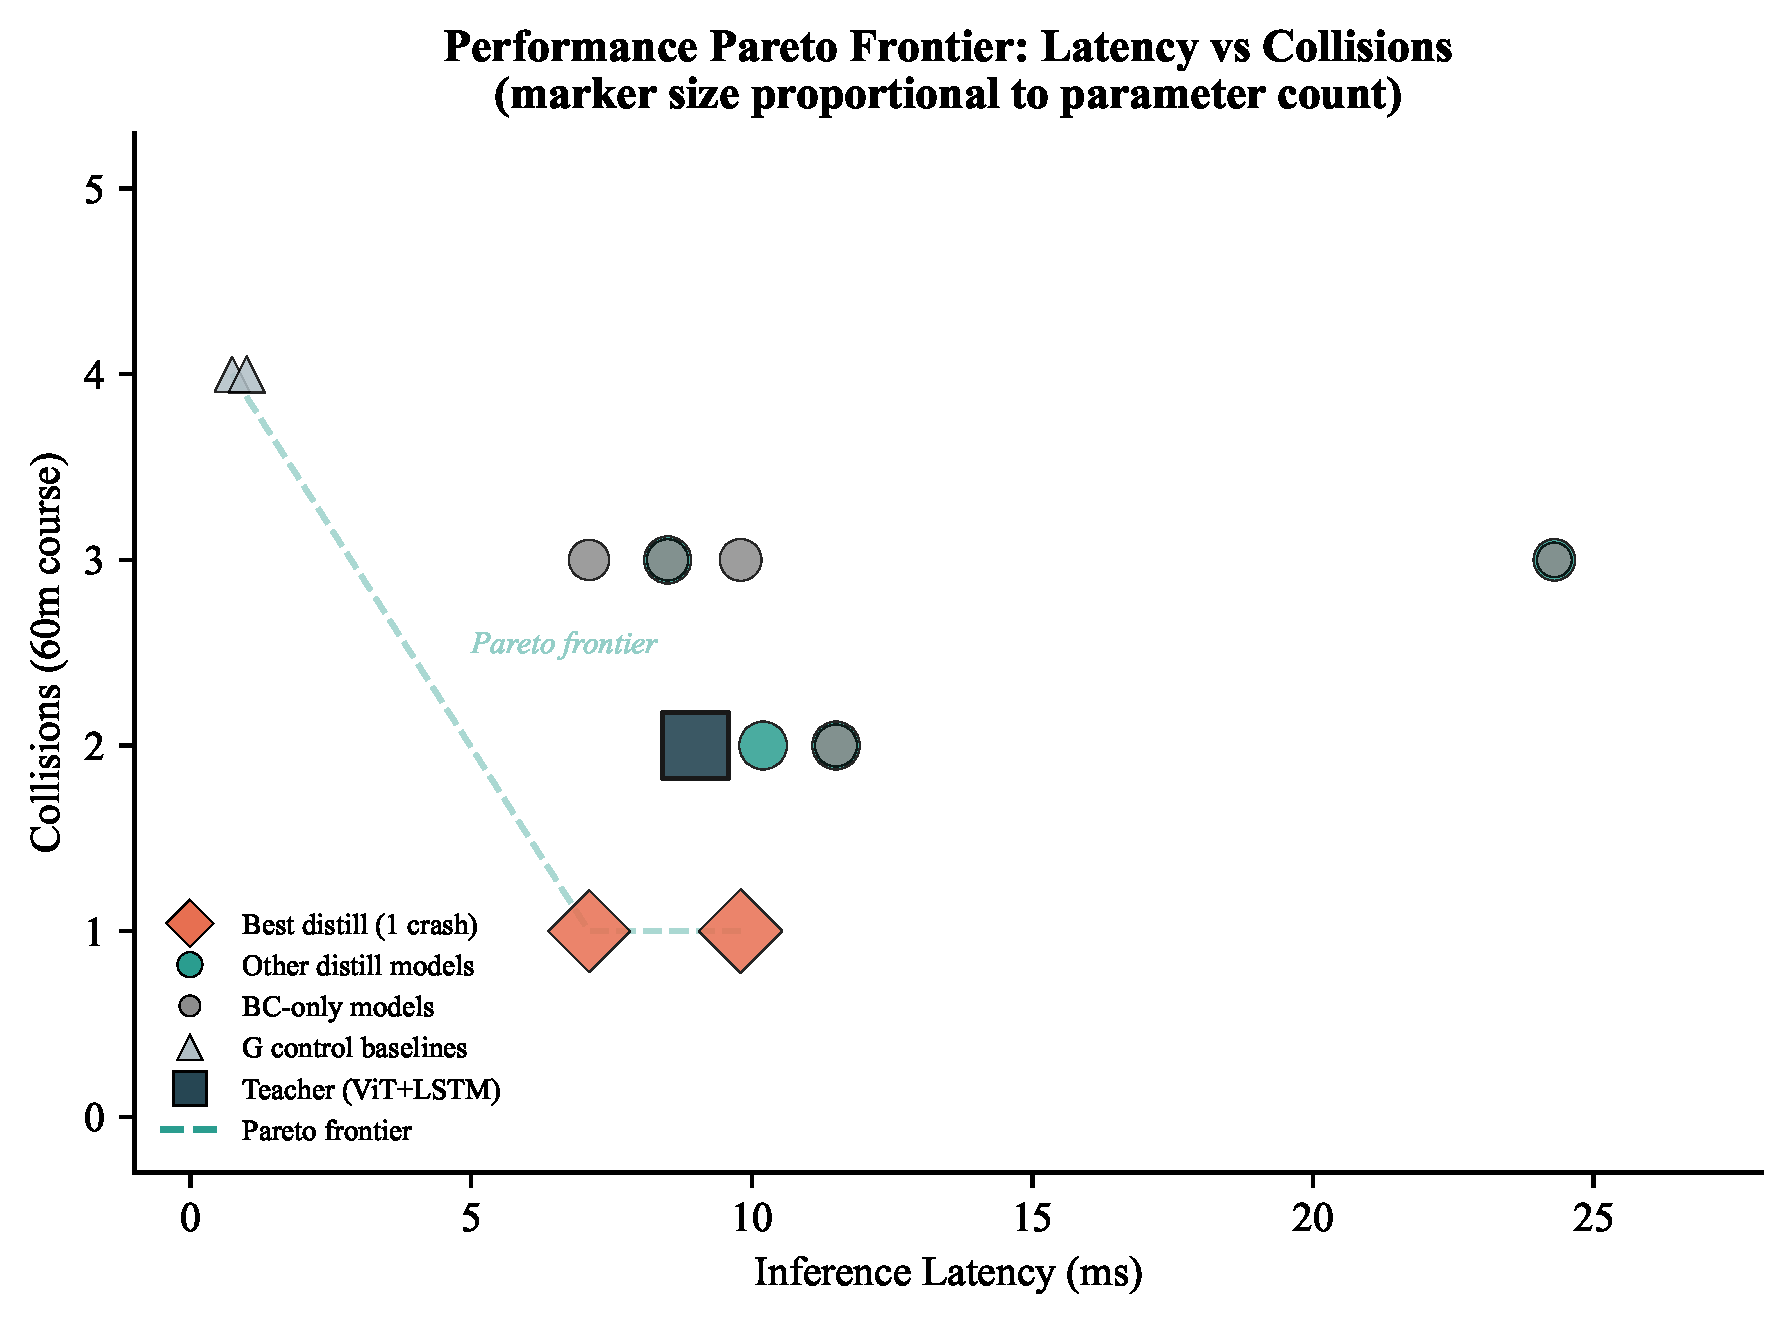
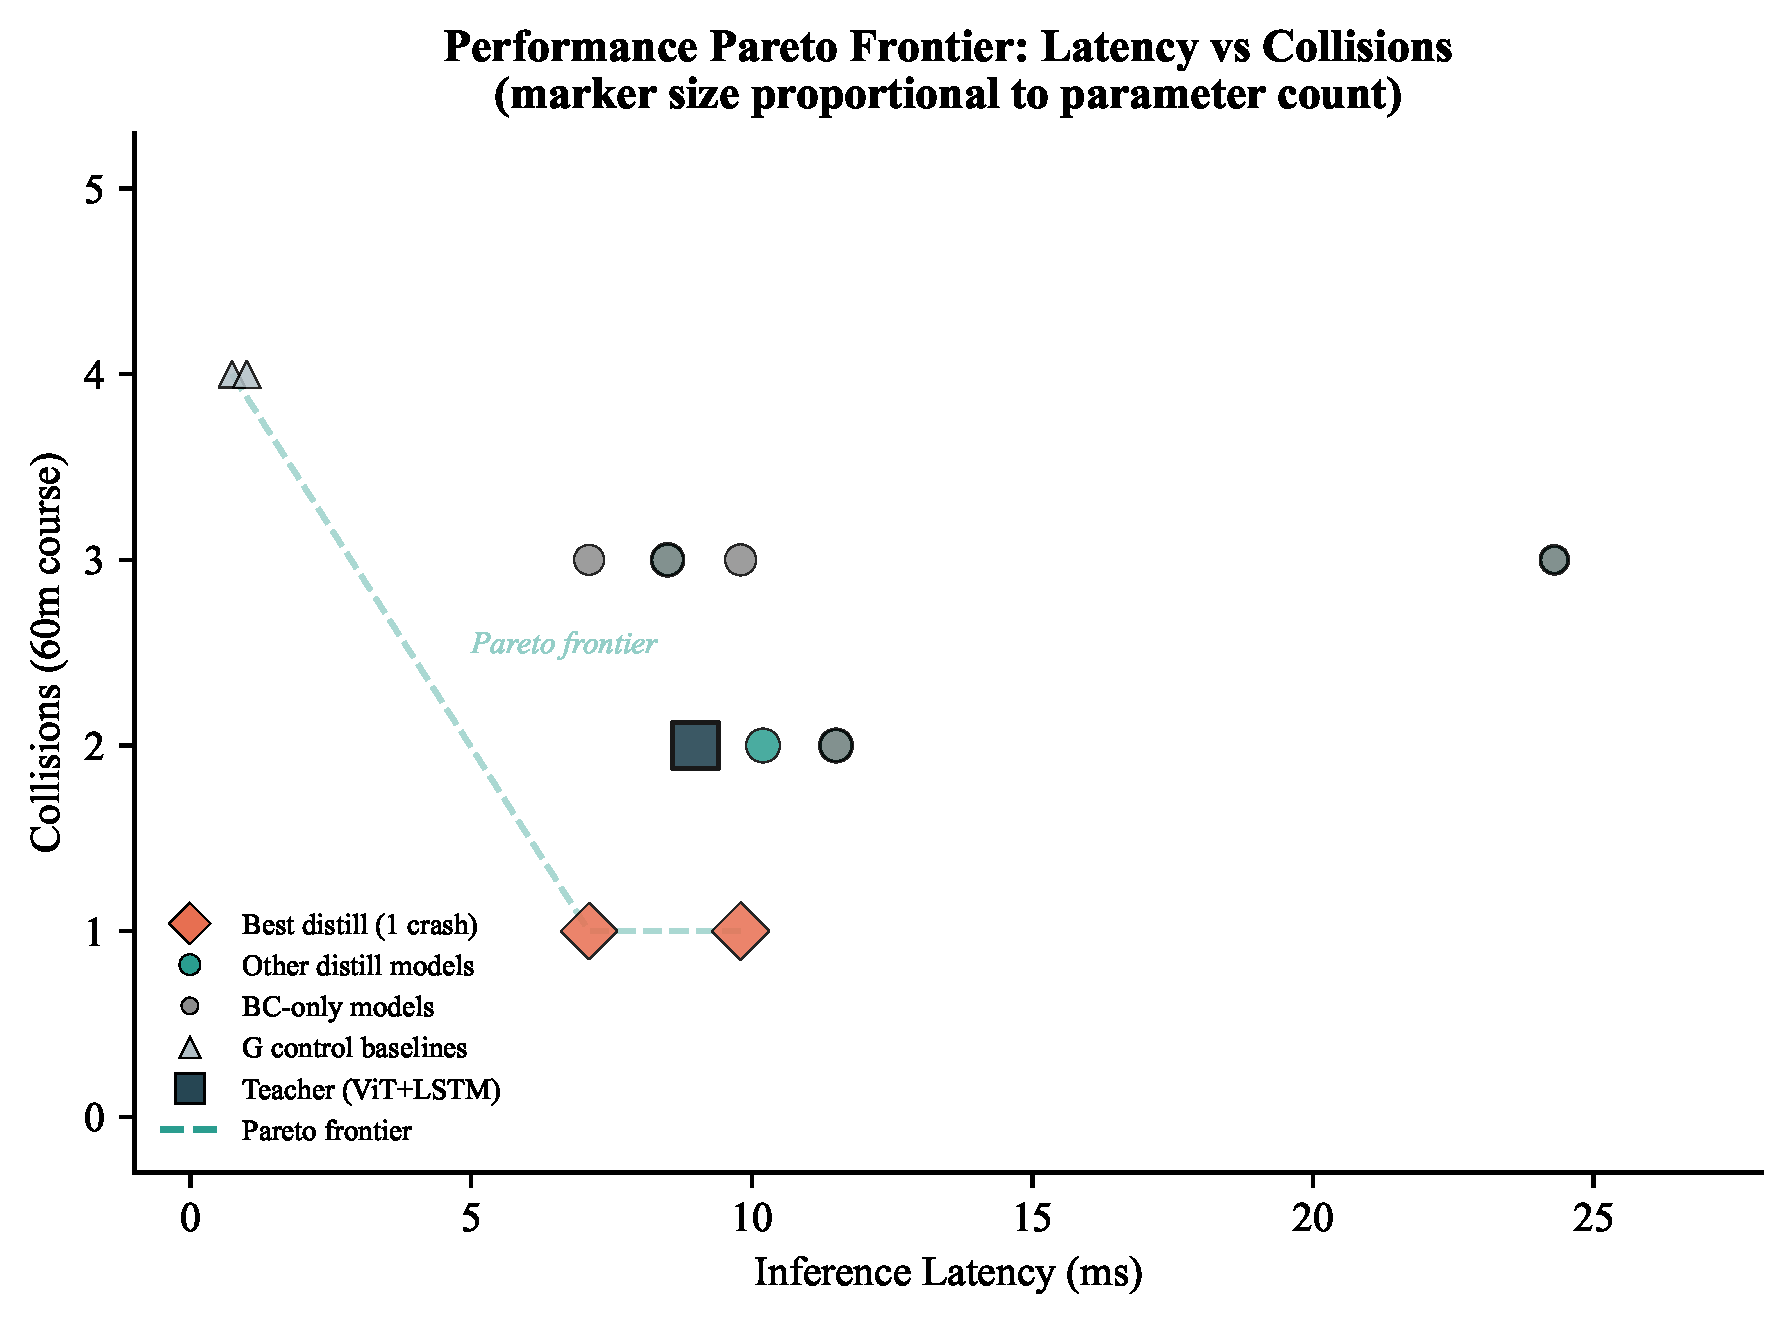
fix(figures): reduce Pareto markers by ~50% (less crowding)

diff --git a/paper/figures/gen_all_figures.py b/paper/figures/gen_all_figures.py
@@ -113,20 +113,20 @@ def make_pareto():
 
     # Plot by group with distinct markers
     groups = {
-        'best':   dict(color=C_OURS, marker='D', size=150, label='Best distill (1 crash)'),
-        'distill':dict(color='#2A9D8F', marker='o', size=80, label='Other distill models'),
-        'bc':     dict(color='#8C8C8C', marker='o', size=50, label='BC-only models'),
-        'g':      dict(color='#B0BEC5', marker='^', size=60, label='G control baselines'),
+        'best':   dict(color=C_OURS, marker='D', size=70, label='Best distill (1 crash)'),
+        'distill':dict(color='#2A9D8F', marker='o', size=40, label='Other distill models'),
+        'bc':     dict(color='#8C8C8C', marker='o', size=30, label='BC-only models'),
+        'g':      dict(color='#B0BEC5', marker='^', size=35, label='G control baselines'),
     }
 
     for name, (crashes, lat, params, group) in data.items():
         g = groups[group]
-        ax.scatter(lat, crashes, s=g['size'] + params * 20, c=g['color'],
+        ax.scatter(lat, crashes, s=g['size'] + params * 10, c=g['color'],
                    marker=g['marker'], edgecolors='black', linewidth=0.3,
                    alpha=0.85, zorder=5)
 
     # Teacher
-    ax.scatter(t_lat, t_crash, s=250, c=C_TEACHER, marker='s',
+    ax.scatter(t_lat, t_crash, s=120, c=C_TEACHER, marker='s',
                edgecolors='black', linewidth=1.0, zorder=6, alpha=0.9,
                label='Teacher (ViT+LSTM)')
 
@@ -150,15 +150,15 @@ def make_pareto():
     # Legend: all four groups + teacher
     from matplotlib.lines import Line2D
     legend_elements = [
-        Line2D([0], [0], marker='D', color='w', markerfacecolor=C_OURS, markersize=8,
+        Line2D([0], [0], marker='D', color='w', markerfacecolor=C_OURS, markersize=7,
                markeredgecolor='black', markeredgewidth=0.3, label='Best distill (1 crash)'),
-        Line2D([0], [0], marker='o', color='w', markerfacecolor='#2A9D8F', markersize=6,
+        Line2D([0], [0], marker='o', color='w', markerfacecolor='#2A9D8F', markersize=5,
                markeredgecolor='black', markeredgewidth=0.3, label='Other distill models'),
-        Line2D([0], [0], marker='o', color='w', markerfacecolor='#8C8C8C', markersize=5,
+        Line2D([0], [0], marker='o', color='w', markerfacecolor='#8C8C8C', markersize=4,
                markeredgecolor='black', markeredgewidth=0.3, label='BC-only models'),
-        Line2D([0], [0], marker='^', color='w', markerfacecolor='#B0BEC5', markersize=6,
+        Line2D([0], [0], marker='^', color='w', markerfacecolor='#B0BEC5', markersize=5,
                markeredgecolor='black', markeredgewidth=0.3, label='G control baselines'),
-        Line2D([0], [0], marker='s', color='w', markerfacecolor=C_TEACHER, markersize=8,
+        Line2D([0], [0], marker='s', color='w', markerfacecolor=C_TEACHER, markersize=7,
                markeredgecolor='black', markeredgewidth=0.5, label='Teacher (ViT+LSTM)'),
         Line2D([0], [0], linestyle='--', color='#2A9D8F', label='Pareto frontier'),
     ]
